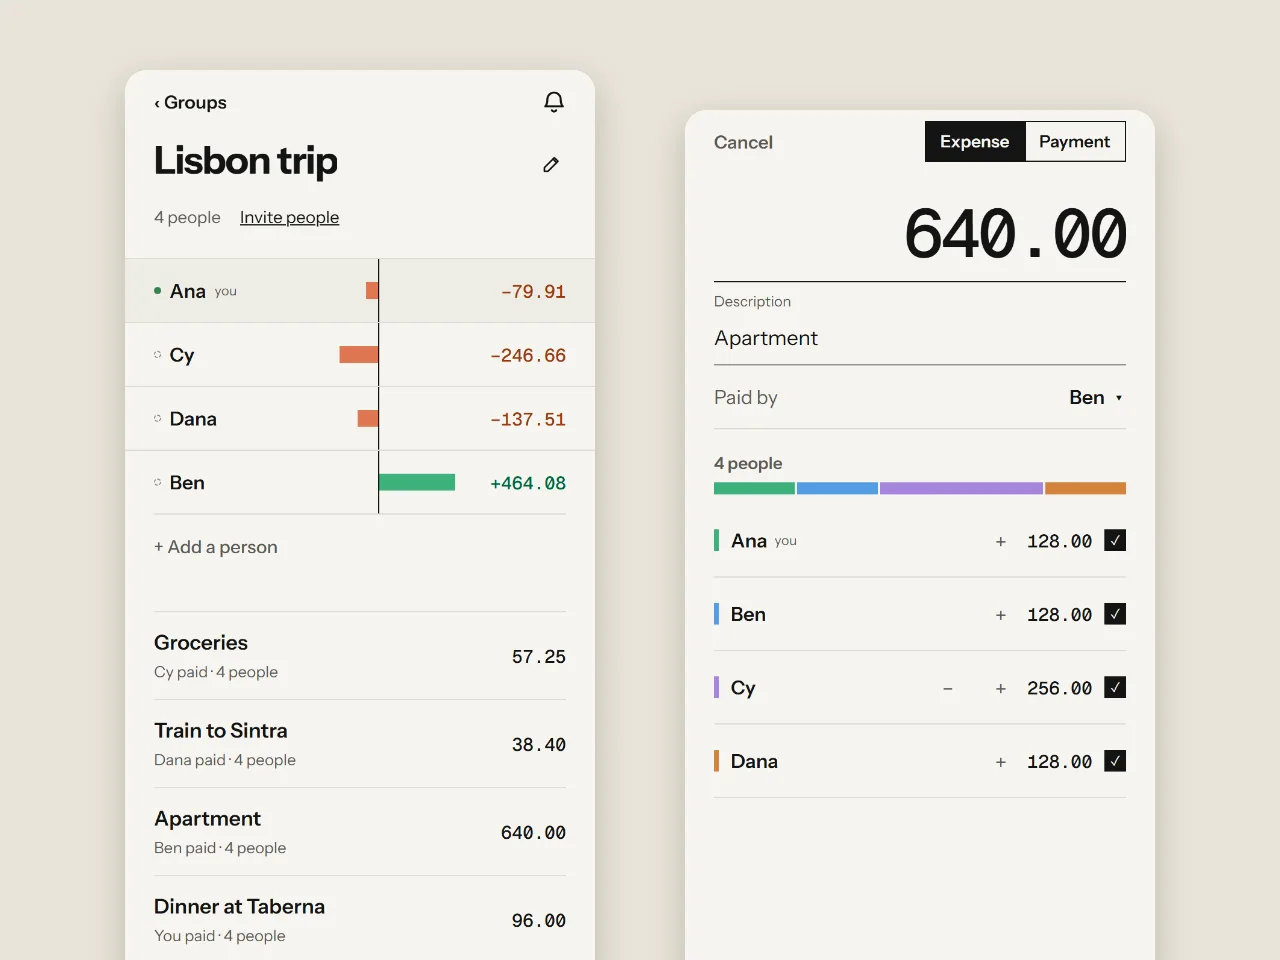
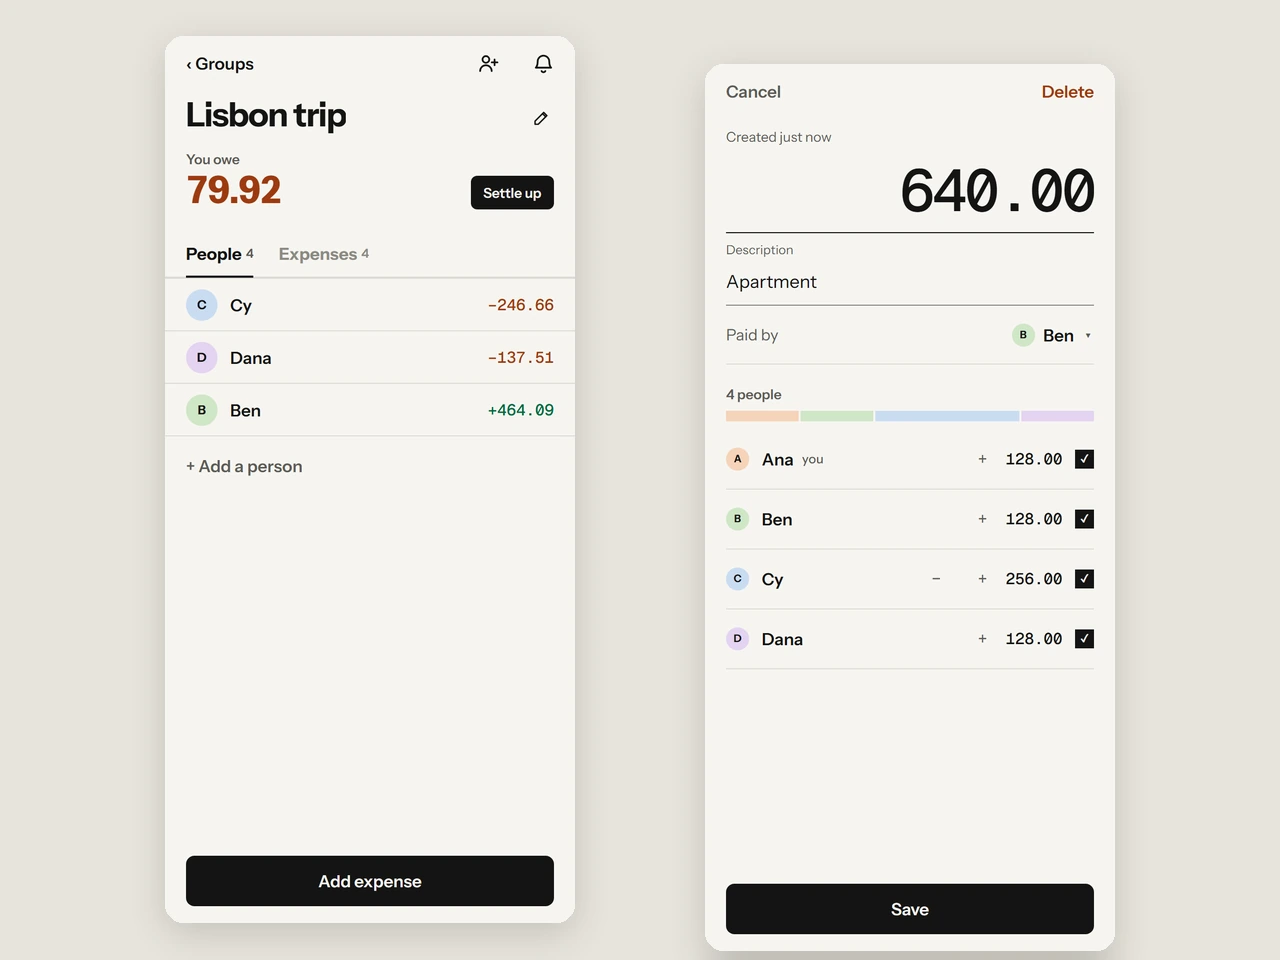
Refresh Splitnext project screenshot and staging link

Changed region(s): [[0.0938, 0.0312, 0.4688, 1.0], [0.5312, 0.0938, 0.9062, 1.0], [0.2812, 0.2812, 0.3125, 0.3125]]

diff --git a/src/data/projects.ts b/src/data/projects.ts
@@ -47,10 +47,12 @@ export const projects: Project[] = [
   {
     id: 'splitnext',
     title: 'Splitnext',
-    description: 'Offline-first shared-expense app for groups. Changes apply instantly, sync in real time across devices and wait on the device while offline. Each group lives in its own SQLite Durable Object, and expenses split equally, by shares or by exact amounts with fair rounding.',
+    description: 'Offline-first shared-expense app with group balances, searchable expenses, flexible splits and a settle-up plan. Changes apply instantly and sync across devices when connected. Activity keeps the history with safe undo. Each group runs in its own SQLite Durable Object, with fair rounding for equal, share-based and exact splits.',
     tech: ['React Native (Expo)', 'TypeScript', 'Hono', 'Cloudflare Durable Objects', 'D1', 'WebSockets'],
     screenshot: '/splitnext-screenshot.webp',
-    screenshotAlt: 'Splitnext group balances, an expense split by shares, and the settle-up plan',
+    screenshotAlt: 'Splitnext People tab with group balances beside an apartment expense split by shares',
+    liveUrl: 'https://splitnext-api-staging.santistebanc94.workers.dev/app',
+    liveLabel: 'Staging ->',
     githubUrl: 'https://github.com/santistebanc/splitnext',
   },
   {
